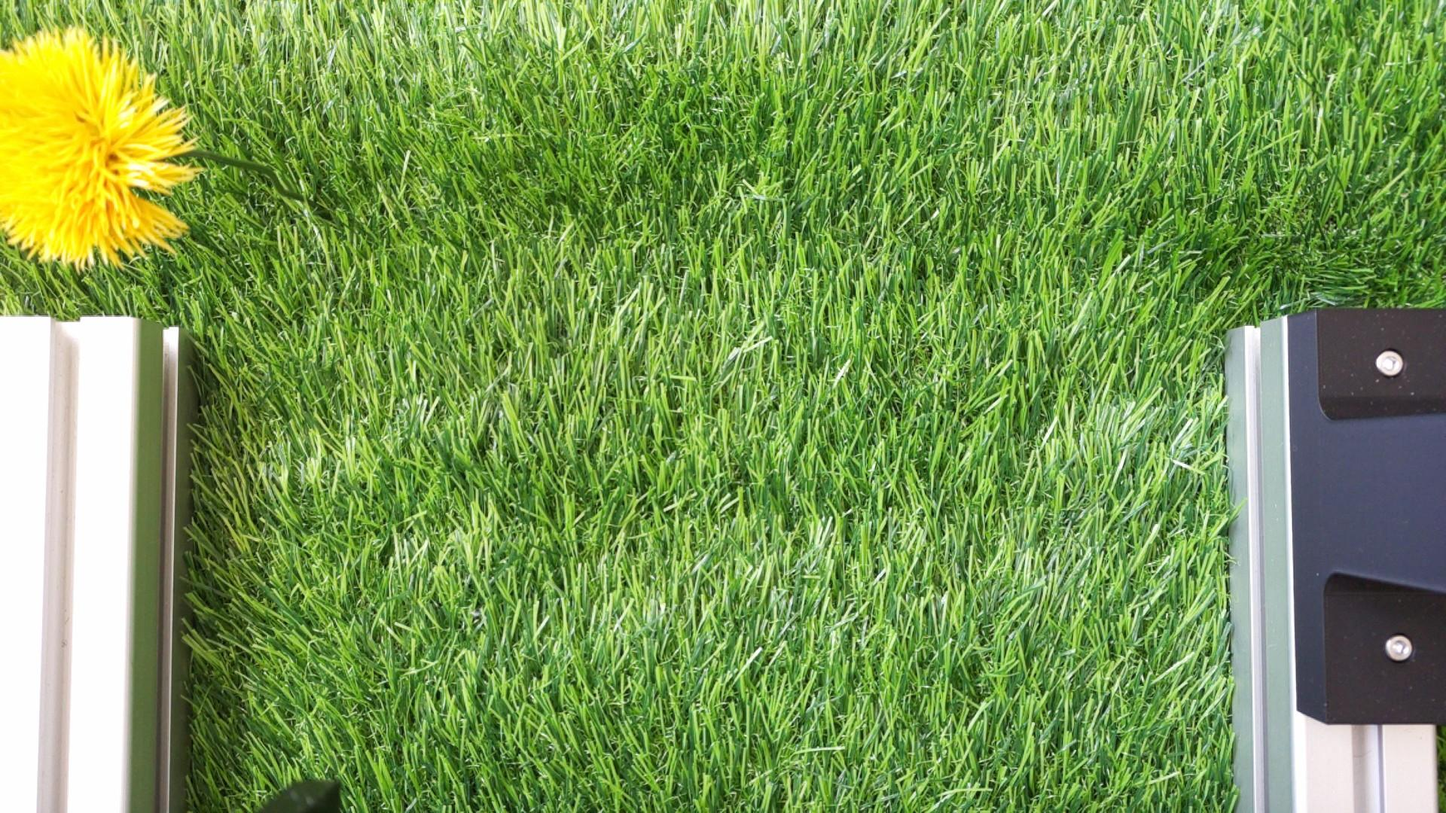
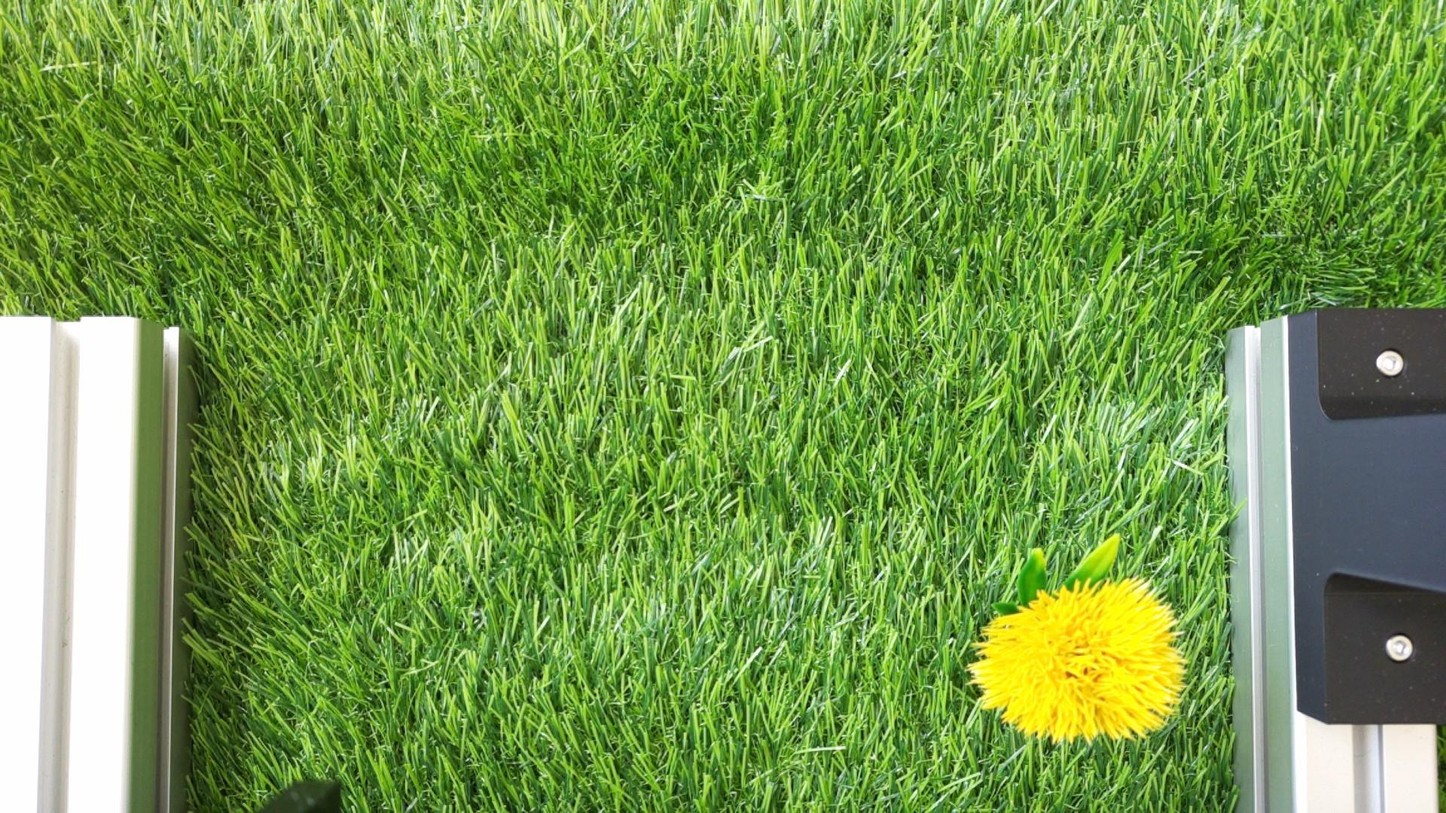
test2

diff --git a/src/inference/inference/model_eval.py b/src/inference/inference/model_eval.py
@@ -11,8 +11,8 @@ url = "http://10.0.0.171:8000"
 neo = Pi5Neo('/dev/spidev0.0', 16, 800)
 a = 1.0
 
-actual_base = (1191, 498)
-test_name = "test1"
+actual_base = (432, 281)
+test_name = "test2"
 
 models = {
     "indoor_pose": "/mnt/shared/weedy_ros/src/inference/inference/models/indoor_pose_ncnn_model",
@@ -59,7 +59,7 @@ def main():
     # Run inference
     for iter in range(5):
         # Get image
-        
+
         image_path = get_image()
 
         for model_name, model in loaded_models.items():
@@ -93,7 +93,7 @@ def main():
                         if all(tensor.numpy() != 0):
                             distance = euclidean_distance(actual_base, (tensor[0], tensor[1]))
                             confidence = tensor[2]
-                            if distance < best_distance:
+                            if best_confidence < confidence:
                                 best_distance = distance
                                 best_confidence = confidence
                             break
